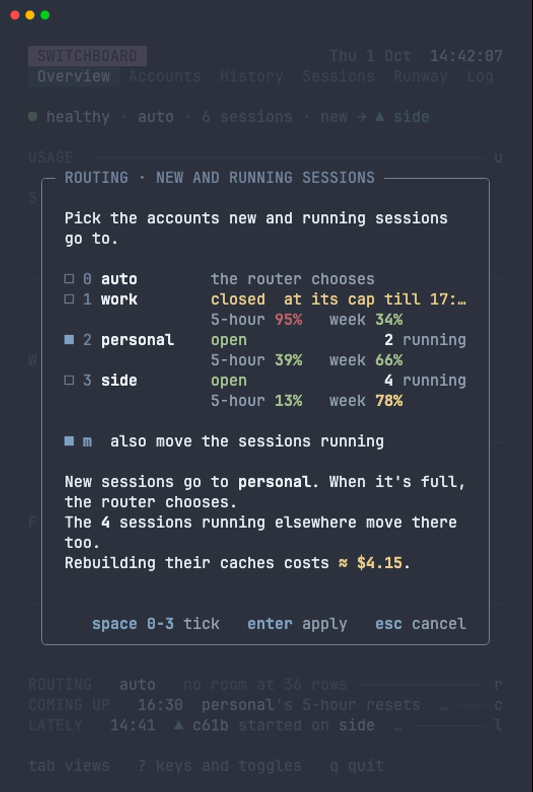
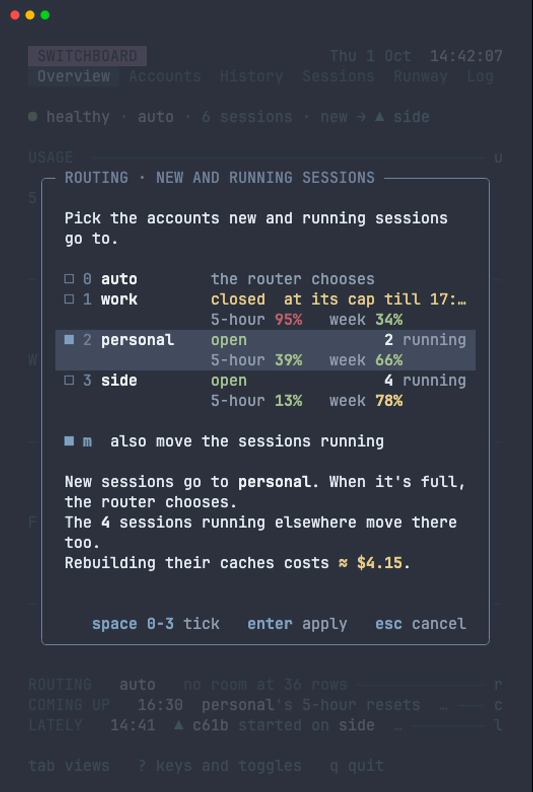
feat: the routing card's cursor row lit on bg.selection always, as the owner chose

Changed region(s): [[0.0901, 0.3939, 0.9006, 0.4848]]

diff --git a/internal/dashboard/routingcard_test.go b/internal/dashboard/routingcard_test.go
@@ -11,6 +11,7 @@ import (
 	"github.com/leeovery/switchboard/internal/ledger"
 	"github.com/leeovery/switchboard/internal/quota"
 	"github.com/leeovery/switchboard/internal/status"
+	"github.com/leeovery/switchboard/internal/theme"
 )
 
 // routedAt is the moment the routing frames were drawn at: Thu 1 Oct 2026,
@@ -90,7 +91,7 @@ func TestTheRoutingCardIsDrawnAsItsFrames(t *testing.T) {
 		whole []spot
 	}{
 		{stem: "routing-auto-160", card: RoutingCard{}},
-		{stem: "routing-two-160", card: RoutingCard{Picked: []string{"personal", "side"}, Cursor: 2}},
+		{stem: "routing-two-160", card: RoutingCard{Picked: []string{"personal", "side"}, Cursor: 3}},
 		{stem: "routing-move-160", card: RoutingCard{Picked: []string{"personal"}, Cursor: 2, Move: true, Moving: 4, Cost: dollars(620)}},
 		// The frame's card draws personal's week 64%, where its page, and
 		// the world, have 66%.
@@ -102,7 +103,11 @@ func TestTheRoutingCardIsDrawnAsItsFrames(t *testing.T) {
 			tt.card.Rows = RoutingRows(doc, sessions, routedAt, claudeLike)
 			f := Frame{Width: 160, Height: 37, Look: nord, View: Overview, Policy: claudeLike, Sessions: sessions, Card: tt.card}
 			drawn := screenOf(t, f.Draw(doc, routedAt))
-			heldTo(t, tt.stem, reference(t, tt.stem), drawn, region{top: 9, bottom: 26, left: 39, right: 120}, shadeOf(nord.Canvas()), tt.whole, figures)
+			// The frames light no row, where the design lights the cursor's,
+			// its rows from row 13, from a cell before the card's content to
+			// a cell after it.
+			lit := spot{row: 13 + tt.card.Cursor, first: 41, last: 118}
+			heldTo(t, tt.stem, reference(t, tt.stem), drawn, region{top: 9, bottom: 26, left: 39, right: 120}, shadeOf(nord.Canvas()), append(tt.whole, lit), figures)
 		})
 	}
 }
@@ -579,6 +584,107 @@ func choiceNamed(l string) string {
 		return l
 	}
 	return strings.Fields(string([]rune(l)[choiceName+2:]))[0]
+}
+
+func TestTheRowTheCursorsOnIsLitAndNoOther(t *testing.T) {
+	accounts := make([]status.Account, 12)
+	for i := range accounts {
+		accounts[i] = readAccount("a"+strconv.Itoa(i+1), sessionOf(0.1, time.Hour))
+	}
+	twelve := RoutingCard{Rows: RoutingRows(routerDoc("a1", 0, accounts...), nil, now, claudeLike)}
+	// The third account, at its limit, can't be picked, but takes the cursor
+	// as the rest do.
+	closed := RoutingCard{Rows: RoutingRows(routerDoc("", 0, namedAccounts(3)...), nil, now, claudeLike)}
+	if closed.Rows[3].Pickable {
+		t.Fatalf("%s can be picked, want it at its limit", closed.Rows[3].Name)
+	}
+	tests := []struct {
+		name          string
+		width, height int
+		card          RoutingCard
+		cursors       []int
+	}{
+		{name: "at 160 columns", width: 160, height: 37, card: routedCard(nil), cursors: []int{0, 1, 2, 3}},
+		{name: "on a phone, an account's both lines", width: 52, height: 40, card: routedCard(nil), cursors: []int{0, 1, 2, 3}},
+		{name: "a row that can't be picked", width: 160, height: 37, card: closed, cursors: []int{3}},
+		{name: "scrolled, the cursor kept in view", width: 160, height: 30, card: twelve, cursors: []int{0, 11, 12}},
+	}
+	selection := hue{token: theme.BgSelection}
+	for _, tt := range tests {
+		for _, cursor := range tt.cursors {
+			t.Run(fmt.Sprintf("%s, the cursor on row %d", tt.name, cursor+1), func(t *testing.T) {
+				r := tt.card
+				r.Cursor = cursor
+				f := Frame{Width: tt.width, Height: tt.height}
+				lit, unlit := drawnLit(f, r)
+				left, _, width, _ := r.card(f).box(f.Width, f.Height)
+				row := r.Rows[cursor]
+				first := rowSaying(lit, left+cardInset+choiceName, padded(row.Key, 2)+row.Name+" ")
+				if first < 0 {
+					t.Fatalf("no row of the card names %s", row.Name)
+				}
+				last := first
+				if f.phone() && row.Account != "" {
+					last++
+				}
+				for y := range f.Height {
+					for x := range f.Width {
+						want := y >= first && y <= last && x >= left+cardInset-1 && x <= left+width-cardInset
+						if got := lit.at(x, y).ink.on == selection; got != want {
+							t.Errorf("cell %d of row %d is on bg.selection: %v, want %v", x+1, y+1, got, want)
+						}
+						kept := *lit.at(x, y)
+						kept.ink.on = unlit.at(x, y).ink.on
+						if kept != *unlit.at(x, y) {
+							t.Errorf("cell %d of row %d is drawn %+v, want it as unlit, %+v, but for its surface", x+1, y+1, *lit.at(x, y), *unlit.at(x, y))
+						}
+					}
+				}
+			})
+		}
+	}
+}
+
+func TestTheCursorsRowIsLitAsTheLookDrawsBgSelection(t *testing.T) {
+	r := routedCard(func(r *RoutingCard) { r.Cursor = 2 })
+	f := Frame{Width: 160, Height: 37}
+	lit, unlit := drawnLit(f, r)
+	y := rowSaying(lit, 39+cardInset+choiceName, "2 personal ")
+	nord, terminal := Screen(builtin(t, "nord")), Screen(builtin(t, theme.Terminal))
+	for x := 41; x <= 118; x++ {
+		k := lit.at(x, y).ink
+		if got, want := shadeOf(nord.surface(k)), shadeOf(nord.theme.Colour(theme.BgSelection)); got != want {
+			t.Errorf("in nord, cell %d is on %s, want bg.selection, %s", x+1, got, want)
+		}
+		if !terminal.reversed(k) {
+			t.Errorf("in the terminal theme, cell %d isn't reversed, as it draws bg.selection", x+1)
+		}
+	}
+	if got, want := lit.rows(NoColour()), unlit.rows(NoColour()); !slices.Equal(got, want) {
+		t.Errorf("under NO_COLOR, the card is drawn\n%s\nwant it as it is unlit, as NO_COLOR draws no surface\n%s", strings.Join(got, "\n"), strings.Join(want, "\n"))
+	}
+}
+
+// drawnLit is the routing card drawn alone on a canvas of the frame's size,
+// and drawn as it would be with no row lit.
+func drawnLit(f Frame, r RoutingCard) (lit, unlit *canvas) {
+	k := r.card(f)
+	lit, unlit = newCanvas(f.Width, f.Height), newCanvas(f.Width, f.Height)
+	k.draw(lit)
+	k.lit = bodyRows{}
+	k.draw(unlit)
+	return lit, unlit
+}
+
+// rowSaying is the first row of c that says text from column x: -1 where
+// none does.
+func rowSaying(c *canvas, x int, text string) int {
+	for y, row := range c.rows(Look{}) {
+		if cells := []rune(row); len(cells) > x && strings.HasPrefix(string(cells[x:]), text) {
+			return y
+		}
+	}
+	return -1
 }
 
 func TestOnAPhoneAnAccountsWindowsTakeARowOfTheirOwn(t *testing.T) {

diff --git a/internal/dashboard/routingcard.go b/internal/dashboard/routingcard.go
@@ -195,17 +195,18 @@ func sharedWeek(policy score.Policy) string {
 }
 
 // card is the routing card on the frame: titled as m stands; its opening
-// line; its rows, those that fit in view; m's row; the outcome; and its keys,
-// a blank row between each. It's as tall as all its rows, up to the frame's
-// height less routingSpare, past which its rows scroll, the one the cursor
-// is on kept in view.
+// line; its rows, those that fit in view, the one the cursor is on lit; m's
+// row; the outcome; and its keys, a blank row between each. It's as tall as
+// all its rows, up to the frame's height less routingSpare, past which its
+// rows scroll, the one the cursor is on kept in view.
 func (r RoutingCard) card(f Frame) Card {
 	width := f.cardWidth(routingWidth)
 	content := width - 2*cardInset
 	above := slices.Concat(r.opening(content), []line{nil})
 	below := slices.Concat([]line{nil, r.moveRow(), nil}, r.outcome(content))
-	rows, scroll := r.inView(f.phone(), content, f.bodyRoom(routingSpare, true)-len(above)-len(below))
-	return Card{title: r.title(), width: width, body: slices.Concat(above, rows, below), keys: r.keys(content), scroll: scroll}
+	rows, lit, scroll := r.inView(f.phone(), content, f.bodyRoom(routingSpare, true)-len(above)-len(below))
+	lit.first += len(above)
+	return Card{title: r.title(), width: width, body: slices.Concat(above, rows, below), keys: r.keys(content), scroll: scroll, lit: lit}
 }
 
 // title is the card's title: what it routes, running sessions too while m
@@ -241,30 +242,38 @@ func atLeast(lines []line, rows int) []line {
 }
 
 // inView are the card's rows as they show in room lines, as choice lays each
-// out, and how far they're scrolled: all of them where they fit; else those
-// around the cursor, with "▲ 2 more" over them while some are above, and
-// "▼ 3 more" under them while some are below, in all room's lines, so a
-// phone's rows of two lines never move the card as the cursor does.
-func (r RoutingCard) inView(phone bool, width, room int) ([]line, cardScroll) {
+// out, the lines of them the cursor's row takes, and how far they're
+// scrolled: all of them where they fit; else those around the cursor, with
+// "▲ 2 more" over them while some are above, and "▼ 3 more" under them while
+// some are below, in all room's lines, so a phone's rows of two lines never
+// move the card as the cursor does.
+func (r RoutingCard) inView(phone bool, width, room int) ([]line, bodyRows, cardScroll) {
 	choices := make([][]line, len(r.Rows))
 	heights := make([]int, len(r.Rows))
 	for i, row := range r.Rows {
 		choices[i] = r.choice(row, phone, width)
 		heights[i] = len(choices[i])
 	}
-	first, end := scrolledTo(heights, min(max(r.Cursor, 0), len(heights)-1), room)
+	cursor := min(max(r.Cursor, 0), len(heights)-1)
+	first, end := scrolledTo(heights, cursor, room)
 	var lines []line
+	var lit bodyRows
 	if first > 0 {
 		lines = append(lines, line{{"▲ " + strconv.Itoa(first) + " more", dimInk}})
 	}
-	lines = append(lines, slices.Concat(choices[first:end]...)...)
+	for i := first; i < end; i++ {
+		if i == cursor {
+			lit = bodyRows{first: len(lines), n: heights[i]}
+		}
+		lines = append(lines, choices[i]...)
+	}
 	if end < len(choices) {
 		lines = append(lines, line{{"▼ " + strconv.Itoa(len(choices)-end) + " more", dimInk}})
 	}
 	if first > 0 || end < len(choices) {
 		lines = atLeast(lines, room)
 	}
-	return lines, cardScroll{above: first, below: len(choices) - end}
+	return lines, lit, cardScroll{above: first, below: len(choices) - end}
 }
 
 // scrolledTo is which of the choices, each heights[i] lines tall, show in room

diff --git a/internal/capture/reference_test.go b/internal/capture/reference_test.go
@@ -257,6 +257,14 @@ func figures(n int, session, week string) []passing {
 // has them, rows 15, 16 and 17.
 var routingFigures = slices.Concat(figures(15, "95%", "34%"), figures(16, "39%", "66%"), figures(17, "13%", "78%"))
 
+// cursorRow passes over row n of a routing frame, the card's row the cursor
+// is on, which reads as given, from a cell before the card's content to a
+// cell after it: the frames light no row, where the design lights the
+// cursor's on bg.selection.
+func cursorRow(n int, reads string) passing {
+	return cellsOf(n, 42, 119, reads)
+}
+
 // behindTheCard passes over the page the routing frames draw behind the
 // card's box, of three accounts: work's week's and Fable week's even paces,
 // on row 9, above it; and ROUTING's traces beside and under it, and their
@@ -436,11 +444,13 @@ var passedOver = map[string][]passing{
 	"history-year-160":      {period(145, "last 12 months"), wholeRow(37, historyKeys)},
 	"history-year-opus-160": {period(145, "last 12 months"), wholeRow(37, historyKeys)},
 
-	"routing-auto-160": slices.Concat(routingFigures, behindTheCard("0/min", "2/min", "15/min")),
-	"routing-two-160":  slices.Concat(routingFigures, behindTheCard("0/min", "2/min", "15/min")),
-	"routing-move-160": slices.Concat(routingFigures, []passing{cellsOf(23, 76, 79, "6.20")}, behindTheCard("0/min", "2/min", "15/min")),
+	"routing-auto-160": slices.Concat(routingFigures, []passing{cursorRow(14, "■ 0 auto")}, behindTheCard("0/min", "2/min", "15/min")),
+	"routing-two-160":  slices.Concat(routingFigures, []passing{cursorRow(17, "■ 3 side")}, behindTheCard("0/min", "2/min", "15/min")),
+	"routing-move-160": slices.Concat(
+		routingFigures, []passing{cursorRow(16, "■ 2 personal"), cellsOf(23, 76, 79, "6.20")}, behindTheCard("0/min", "2/min", "15/min"),
+	),
 	"routing-limit-160": slices.Concat(
-		[]passing{cellsOf(11, 27, 29, "┃"), cellsOf(15, 24, 25, "┃")},
+		[]passing{cellsOf(11, 27, 29, "┃"), cellsOf(15, 24, 25, "┃"), cursorRow(17, "■ 3 side")},
 		figures(15, "95%", "34%"), []passing{cellsOf(16, 87, 89, "64%")}, figures(17, "13%", "78%"),
 		behindTheCard("0/min", "0/min", "15/min"), comingLines(33, 72, "16:30"),
 	),

diff --git a/internal/dashboard/card.go b/internal/dashboard/card.go
@@ -1,6 +1,10 @@
 package dashboard
 
-import "strings"
+import (
+	"strings"
+
+	"github.com/leeovery/switchboard/internal/theme"
+)
 
 // The widths a card wants, its edges included: the routing card's, and
 // help's.
@@ -23,8 +27,9 @@ type Opened interface {
 
 // Card is a card drawn over the page, centred across it and down it, the
 // page faded behind it: a rounded line, its title in its top edge; a blank
-// row; its body, from cardInset cells in; a blank row; and its keys, where it
-// has any, right-aligned cardInset cells in on its last row but one.
+// row; its body, from cardInset cells in, the rows the cursor's on lit; a
+// blank row; and its keys, where it has any, right-aligned cardInset cells
+// in on its last row but one.
 type Card struct {
 	// title is in its top edge, after ╭─, as ROUTING · NEW SESSIONS.
 	title string
@@ -39,6 +44,14 @@ type Card struct {
 	// scroll is how far its body is scrolled, where it's taller than the
 	// card has room for.
 	scroll cardScroll
+	// lit are the rows of its body the cursor's on: none where it has no
+	// cursor.
+	lit bodyRows
+}
+
+// bodyRows are rows of a card's body: n of them from its row first.
+type bodyRows struct {
+	first, n int
 }
 
 // cardScroll is how far a card's body is scrolled: how many of its rows are
@@ -93,7 +106,9 @@ func (k Card) box(width, height int) (x, y, w, h int) {
 }
 
 // draw draws the card over what's drawn on c, in its box, the cells inside
-// its line blank.
+// its line blank. Its lit rows are on bg.selection from a cell before its
+// content to a cell after it, a cell clear of its line either side, as the
+// Log's f panel lights a row a cell either side of what it says.
 func (k Card) draw(c *canvas) {
 	keys := len(k.keys) > 0
 	x, y, _, height := k.box(c.width, c.height())
@@ -106,6 +121,9 @@ func (k Card) draw(c *canvas) {
 	}
 	for i, l := range k.body {
 		c.line(x+cardInset, y+2+i, l.fit(content))
+	}
+	for i := range k.lit.n {
+		c.surface(x+cardInset-1, y+2+k.lit.first+i, content+2, hue{token: theme.BgSelection})
 	}
 	if keys {
 		c.right(x+k.width-cardInset, y+height-2, keyRow(k.keys).fit(content))

diff --git a/testdata/vhs/README.md b/testdata/vhs/README.md
@@ -318,6 +318,12 @@ the worlds give otherwise than the frames), which the dashboard draws as its wor
   at 87 to 89, of work on row 15, personal on 16 and side on 17, in `routing-auto-160`,
   `routing-two-160`, `routing-move-160` and `routing-limit-160`, whose personal at its limit,
   `100%`, the frame colours as the design does.
+- **The cursor's row, lit,** which the frames draw on the canvas, where the design has the row the
+  cursor's on lit on `bg.selection` always, as the Log's `f` panel lights its row (Routing by hand,
+  "Its keys"; the owner's call, 12 October 2026): columns 42 to 119, from a cell before the card's
+  content to a cell after it, its glyphs, colours and bold kept, of row 14, `■ 0 auto`, in
+  `routing-auto-160`; row 17, `■ 3 side`, in `routing-two-160` and `routing-limit-160`; and row 16,
+  `■ 2 personal`, in `routing-move-160`.
 - **Personal's week in `routing-limit-160`,** row 16, columns 87 to 89, drawn `64%`, where the world
   reads it at 66%, as the Overview's frames draw it (see What the worlds give otherwise than the
   frames): the card draws `66%`.
